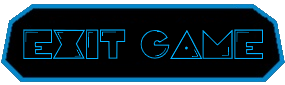
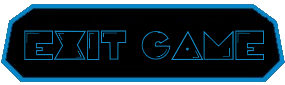
Fixed menu button colors and sizes

Changed region(s): [[0.0561, 0.3294, 0.4491, 0.7059], [0.4772, 0.3294, 0.9263, 0.7059]]

diff --git a/core/src/sk/tuke/gamedev/iddqd/tukequest/visual/SimpleButton.java b/core/src/sk/tuke/gamedev/iddqd/tukequest/visual/SimpleButton.java
@@ -10,46 +10,17 @@ public class SimpleButton {
 
     private Texture texture;
     private TextureRegion region;
-
-    public Texture getTexture() {
-        return texture;
-    }
-
-    public void setTexture(Texture texture) {
-        this.texture = texture;
-    }
-
-    public TextureRegion getRegion() {
-        return region;
-    }
-
-    public void setRegion(TextureRegion region) {
-        this.region = region;
-    }
-
-    public TextureRegionDrawable getDrawable() {
-        return drawable;
-    }
-
-    public void setDrawable(TextureRegionDrawable drawable) {
-        this.drawable = drawable;
-    }
-
-    public ImageButton getButton() {
-        return button;
-    }
-
-    public void setButton(ImageButton button) {
-        this.button = button;
-    }
-
     private TextureRegionDrawable drawable;
     private ImageButton button;
 
     public SimpleButton(String filename) {
-        texture = new Texture(Gdx.files.internal(filename));
-        region = new TextureRegion(texture);
-        drawable = new TextureRegionDrawable(region);
-        button = new ImageButton(drawable);
+        this.texture = new Texture(Gdx.files.internal(filename));
+        this.region = new TextureRegion(texture);
+        this.drawable = new TextureRegionDrawable(region);
+        this.button = new ImageButton(drawable);
+    }
+
+    public ImageButton getButton() {
+        return button;
     }
 }
